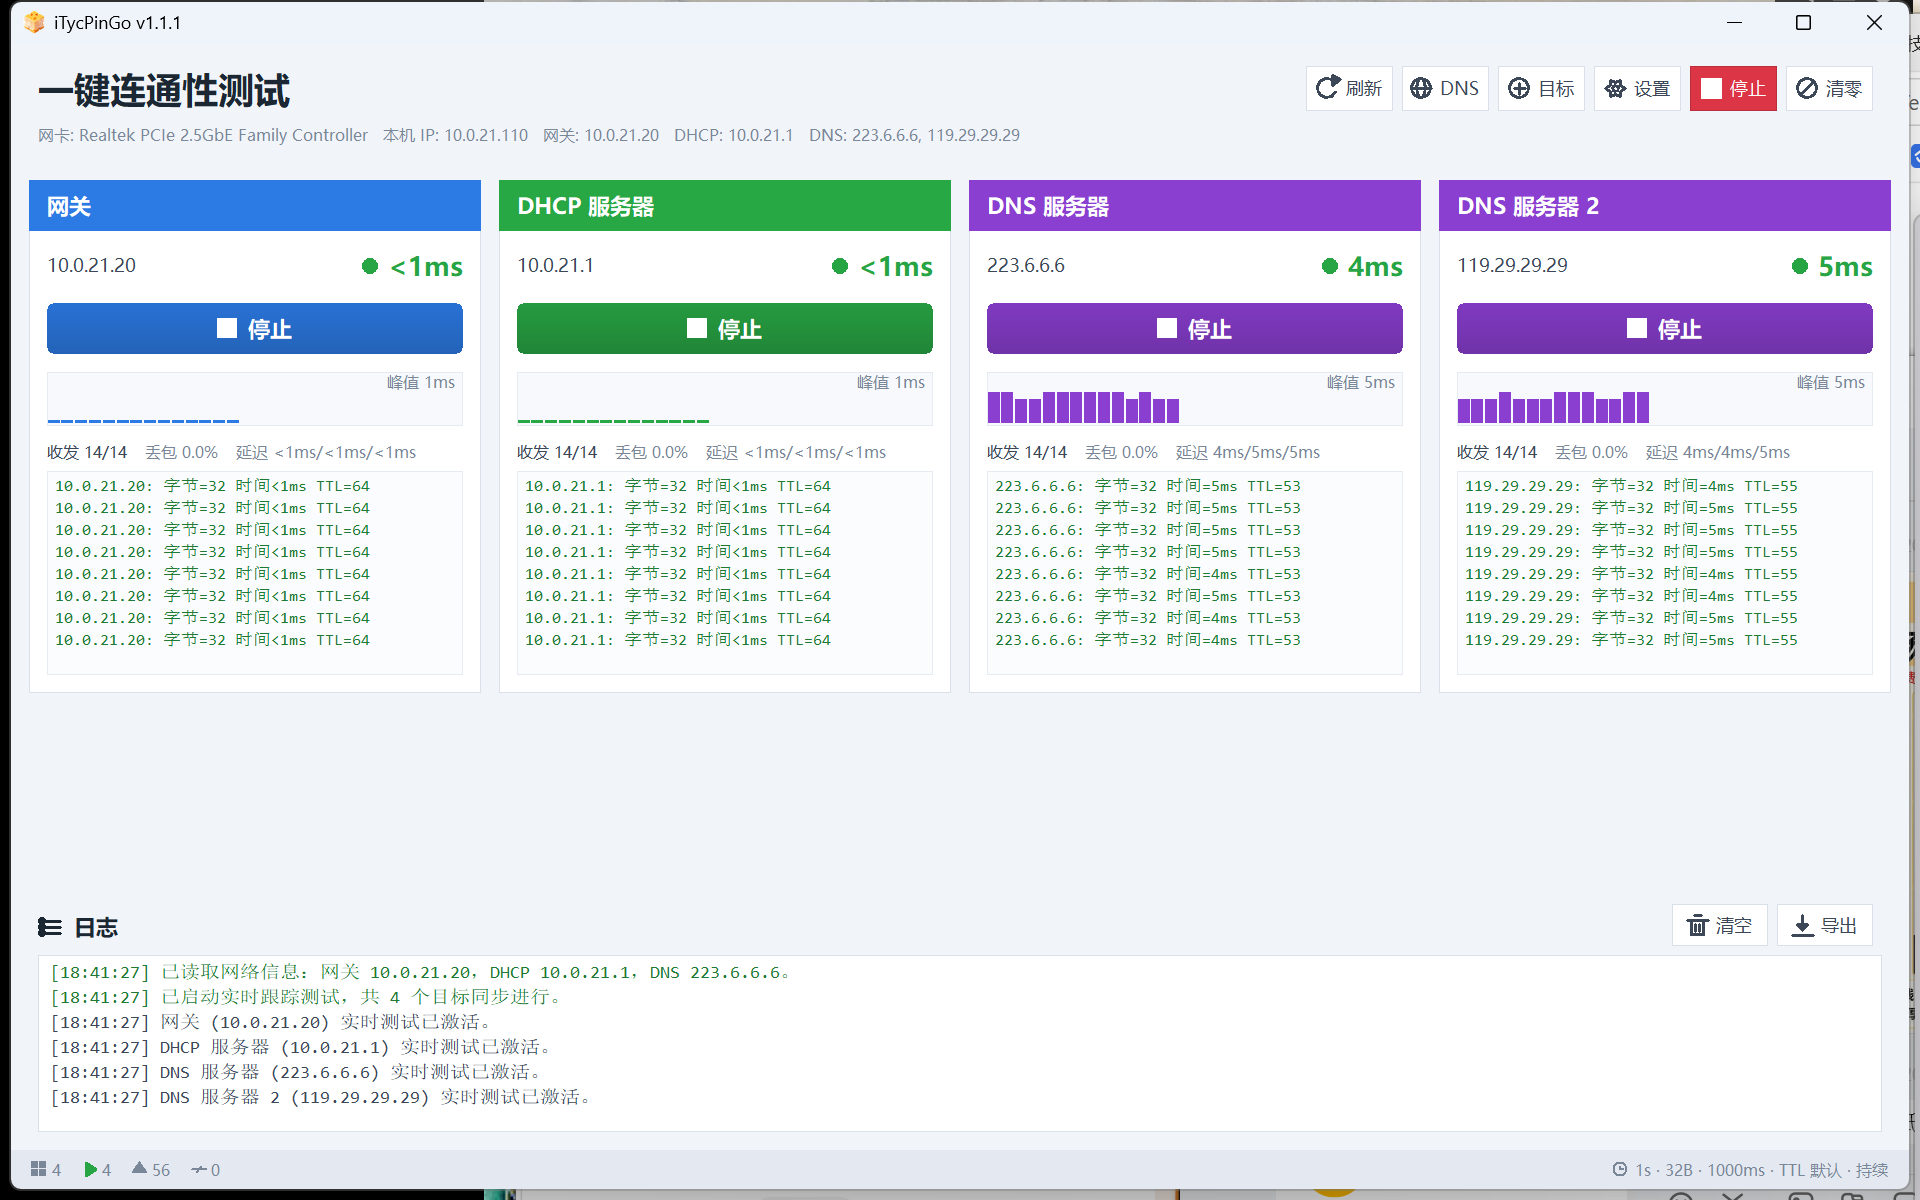
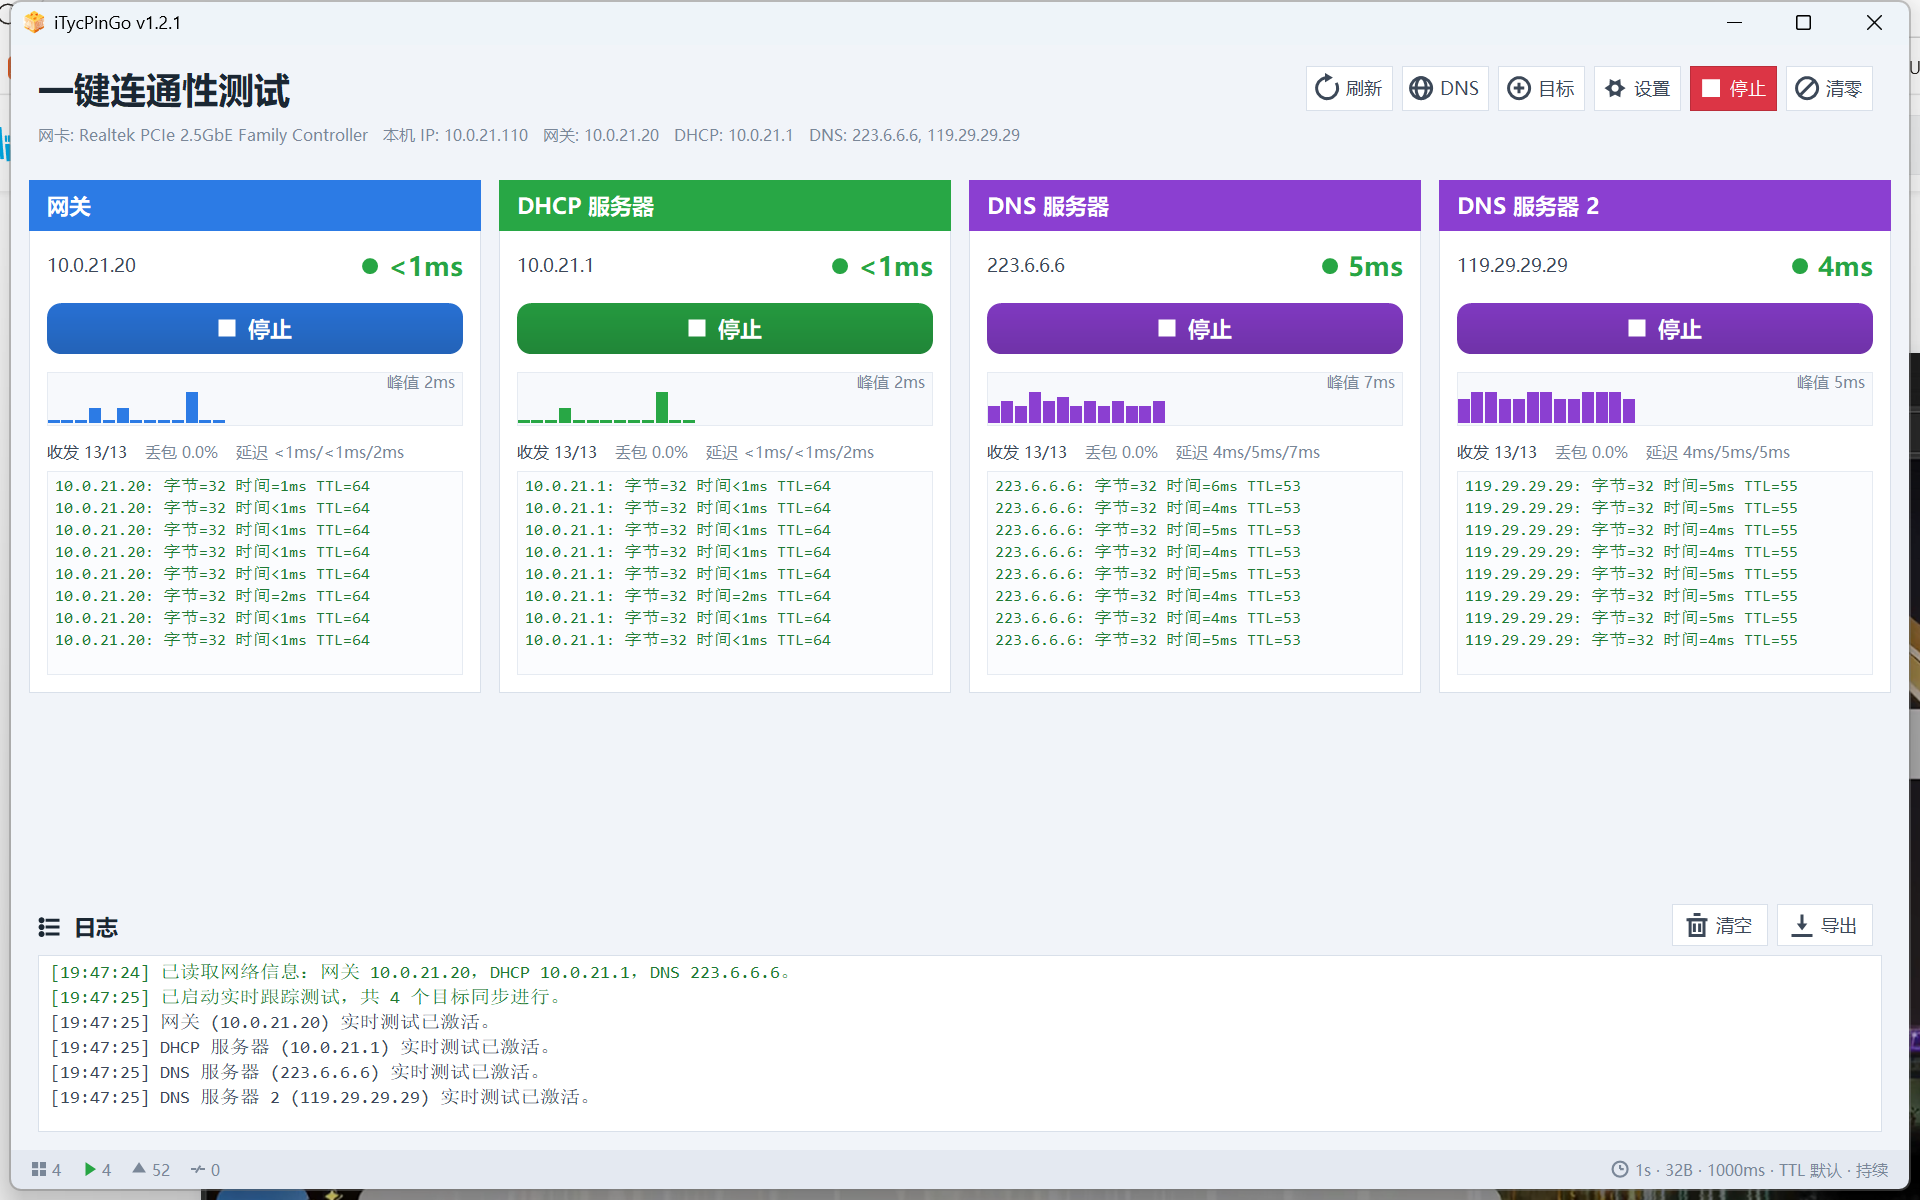
v1.2.1：消除锯齿

diff --git a/README.md b/README.md
@@ -6,7 +6,7 @@
 
 **一键连通性测试**
 
-单文件 227 KB · 免安装 · 无运行库依赖 · Windows 10/11 64 位
+单文件 228 KB · 免安装 · 无运行库依赖 · Windows 10/11 64 位
 
 ### [⬇ 下载最新版](https://github.com/tyrantcwj/iTyc-PinGO/releases/latest)
 
@@ -50,10 +50,10 @@
 
 | | |
 |---|---|
-| exe 体积 | 227 KB |
-| 冷启动到窗口出现 | 0.10 s |
+| exe 体积 | 228 KB |
+| 冷启动到窗口出现 | 0.13 s |
 | 内存 · 工作集 / 专用字节 | 18.7 MB / 4.5 MB |
-| 拖动窗口 | 约 74 FPS |
+| 拖动窗口 | 约 68 FPS |
 | 运行时依赖 | 无 |
 
 ## 说明
